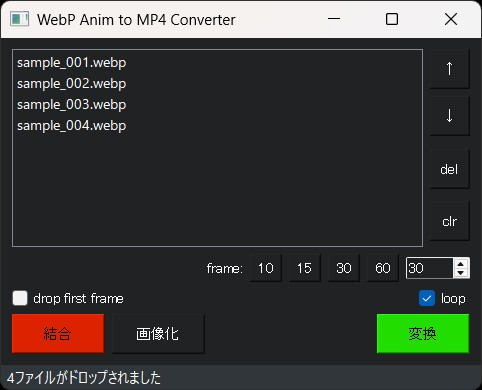
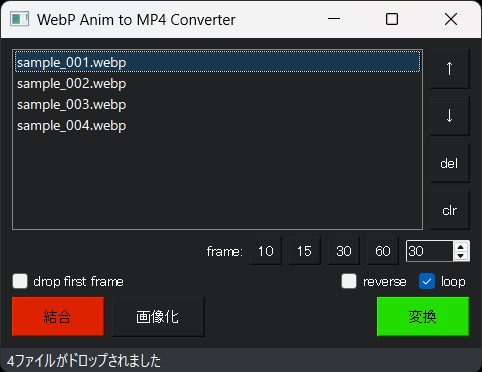
0.2.1 reverse機能を追加、画像化の対象にmp4も追加、他

diff --git a/WebpAnim2Mp4.py b/WebpAnim2Mp4.py
@@ -19,6 +19,7 @@ GEOMETRY_X = "geometry-x"
 GEOMETRY_Y = "geometry-y"
 GEOMETRY_W = "geometry-w"
 GEOMETRY_H = "geometry-h"
+REVERSE_CHECKED = "reverse-checked"
 LOOP_CHECKED = "loop-checked"
 DROP_CHECKED = "drop-checked"
 FRAME_RATE = "frame-rate"
@@ -89,6 +90,8 @@ class WebpAnim2Mp4(QMainWindow):
         self.drop_checkbox = QCheckBox("drop first frame", self)
         self.settingLayout2.addWidget(self.drop_checkbox)
         self.settingLayout2.addStretch()
+        self.reverse_checkbox = QCheckBox("reverse", self)
+        self.settingLayout2.addWidget(self.reverse_checkbox)
         self.loop_checkbox = QCheckBox("loop", self)
         self.settingLayout2.addWidget(self.loop_checkbox)
         self.layout.addLayout(self.settingLayout2)
@@ -254,33 +257,38 @@ class WebpAnim2Mp4(QMainWindow):
 
     def convert_files(self):
         if self.error_check(): return
+        if self.cansel_movie_toolong(self.file_paths): return
         self.proc_start()
         fps = self.fps_spinbox.value()
+        filenum = len(self.file_paths)
         count = 0 
         for file_path in self.file_paths:
-            self.statusBar.showMessage(f"{os.path.basename(file_path)}の変換中")
+            self.statusBar.showMessage(f"{os.path.basename(file_path)}の変換中({count+1}/{filenum})")
             QApplication.processEvents()
             if self.convert_webp_to_mp4(file_path, fps):
                 count += 1
-        mes = f"変換完了！"
+        mes = f"変換完了！({count}ファイル)"
         if count == 0:
             mes = f"エラー: webpファイルが存在しません"
-        elif count != len(self.file_paths):
-            mes = f"{len(self.file_paths)}ファイル中、{count}ファイルを変換しました"
+        elif count != filenum:
+            mes = f"{filenum}ファイル中、{count}ファイルを変換しました"
         self.proc_end(mes)
 
     def convert_webp_to_mp4(self, file_path, fps):
-        #mp4変換はwebpで複数フレームを保持する場合のみ
-        if not file_path.lower().endswith(".webp"): return False
+        #WebPだけじゃなく、画質は落ちるけどmp4もサポート
+        if not file_path.lower().endswith(SUPPORT_MOVIE_EXT): return False
         frames = imageio.mimread(file_path, memtest=False)
         if not frames: return False
 
         sloop = ""
+        # リバース処理: 0,1,2...30 → 30,29,28...2,1,0 に変換
+        if self.reverse_checkbox.isChecked():
+            frames.reverse()
+            sloop += "_rev"
         # ループ処理: 0,1,2...30 → 0,1,2...30,29,28...2,1 に変換
         if self.loop_checkbox.isChecked():
-            #frames += frames[-2::-1]  # 逆順のフレームを追加（最後のフレームは重複しないよう -2 から）
             frames += frames[len(frames)-2:1:-1] #上記の指定だと最後に0フレーム目が被ってる
-            sloop = "_loop"
+            sloop += "_loop"
 
         height, width, _ = frames[0].shape
         fourcc = cv2.VideoWriter_fourcc(*"mp4v")
@@ -320,15 +328,18 @@ class WebpAnim2Mp4(QMainWindow):
         output_file = os.path.splitext(file_path)[0] + f"_concati_{fps}fps{sdrop}.mp4"
         out = cv2.VideoWriter(output_file, fourcc, fps, (width, height))
 
+        filenum = len(self.file_paths)
+        count = 0 
         isFirstFile = True
         for file_path in self.file_paths:
-            self.statusBar.showMessage(f"{os.path.basename(file_path)}の結合中")
+            self.statusBar.showMessage(f"{os.path.basename(file_path)}の結合中({count+1}/{filenum})")
             QApplication.processEvents()
 
             if file_path.lower().endswith(SUPPORT_MOVIE_EXT):
                 frames = imageio.mimread(file_path, memtest=False)
-                if not frames: continue # 動画でないファイルであればスキップ
+                if not frames: continue # 動画でないファイルであればスキップ（最低でも1frameはあるはず）
 
+                count += 1
                 isFirstFrame = True
                 for frame in frames:
                     if not isFirstFile and isFirstFrame:
@@ -342,23 +353,24 @@ class WebpAnim2Mp4(QMainWindow):
 
             isFirstFile = False
         out.release()
-        self.proc_end(f"結合完了！")
+        self.proc_end(f"結合完了！({count}ファイル)")
 
     def to_picfile(self):
         if self.error_check(): return
         if self.cansel_movie_toolong(self.file_paths): return
         self.proc_start()
+        filenum = len(self.file_paths)
         count = 0 
         for file_path in self.file_paths:
-            self.statusBar.showMessage(f"{os.path.basename(file_path)}の処理中")
+            self.statusBar.showMessage(f"{os.path.basename(file_path)}の処理中({count+1}/{filenum})")
             QApplication.processEvents()
             if self.convert_movie_to_png(file_path):
                 count += 1
-        mes = f"処理完了！"
+        mes = f"処理完了！({count}ファイル)"
         if count == 0:
             mes = f"エラー: webp,mp4ファイルが存在しません"
-        elif count != len(self.file_paths):
-            mes = f"{len(self.file_paths)}ファイル中、{count}ファイルを処理しました"
+        elif count != filenum:
+            mes = f"{filenum}ファイル中、{count}ファイルを処理しました"
         self.proc_end(mes)
 
     def cansel_movie_toolong(self, file_paths):
@@ -423,6 +435,9 @@ class WebpAnim2Mp4(QMainWindow):
         dropchecked = pvsubfunc.read_value_from_config(SETTINGS_FILE, DROP_CHECKED)
         if dropchecked != None:
             self.drop_checkbox.setChecked(dropchecked)
+        reversechecked = pvsubfunc.read_value_from_config(SETTINGS_FILE, REVERSE_CHECKED)
+        if reversechecked != None:
+            self.reverse_checkbox.setChecked(reversechecked)
         loopchecked = pvsubfunc.read_value_from_config(SETTINGS_FILE, LOOP_CHECKED)
         if loopchecked != None:
             self.loop_checkbox.setChecked(loopchecked)
@@ -436,6 +451,7 @@ class WebpAnim2Mp4(QMainWindow):
         pvsubfunc.write_value_to_config(SETTINGS_FILE, GEOMETRY_W, self.geometry().width())
         pvsubfunc.write_value_to_config(SETTINGS_FILE, GEOMETRY_H, self.geometry().height())
         pvsubfunc.write_value_to_config(SETTINGS_FILE, DROP_CHECKED, self.drop_checkbox.isChecked())
+        pvsubfunc.write_value_to_config(SETTINGS_FILE, REVERSE_CHECKED, self.reverse_checkbox.isChecked())
         pvsubfunc.write_value_to_config(SETTINGS_FILE, LOOP_CHECKED, self.loop_checkbox.isChecked())
         pvsubfunc.write_value_to_config(SETTINGS_FILE, FRAME_RATE, self.fps_spinbox.value())
 

diff --git a/readme.md b/readme.md
@@ -1,4 +1,4 @@
-## WebpAnim2Mp4について 0.2.0
+## WebpAnim2Mp4について 0.2.1
 WebPのアニメーションファイルをmp4に変換します  
 また動画や画像を結合してmp4に変換します  
 
@@ -6,7 +6,7 @@ WebPのアニメーションファイルをmp4に変換します
 
 ## 特徴
 - 変換：動画生成AIなどで作成した、短いWebPアニメーションファイルをmp4に手軽に変換
-- 変換：フレームの逆再生を含むループ指定可能
+- 変換：フレームの逆再生、ループ指定が可能
 - 結合：複数のWebP,mp4,png,jpgファイルを一つのmp4に結合可能
 - 画像化：WebP,mp4の全フレームをpng画像として出力が可能
 
@@ -44,13 +44,13 @@ WebPのアニメーションファイルをmp4に変換します
 
 - <ins>変換ボタン</ins> - mp4ファイルに変換
     - WebP動画のみを対象として処理
-    - フレームレート、Loop[^1]の指定を元に処理
-    - 入力ファイル数分の変換後mp4ファイル[^2]を生成
+    - フレームレート、loop[^1]、reverse[^2]の指定を元に処理
+    - 入力ファイル数分の変換後mp4ファイル[^3]を生成
 
 - <ins>結合ボタン</ins> - 動画や画像ファイルを結合して1つのmp4ファイルに変換
     - WebP、mp4、jpg、pngを「リストの順序通り」に結合処理
-    - フレームレート、drop first frame[^3]の指定を元に処理
-    - 1つのmp4ファイル[^4]を生成
+    - フレームレート、drop first frame[^4]の指定を元に処理
+    - 1つのmp4ファイル[^5]を生成
 
 - <ins>リスト操作方法</ins>
     - 左クリックでファイルを選択、Shift+左クリックで複数選択、Ctrl+左クリックで選択のトグル
@@ -60,7 +60,7 @@ WebPのアニメーションファイルをmp4に変換します
 - <ins>画像化ボタン</ins> - 全てのフレームをPNGファイルとして出力
     - WebP、mp4動画のみを対象として処理
     - パラメータの指定は参照しません
-    - 入力ファイル名のフォルダを作成し、全フレームの連番pngファイル[^5]を生成
+    - 入力ファイル名のフォルダを作成し、全フレームの連番pngファイル[^6]を生成
 
 > [!WARNING]
 > - 結合する画像と動画の縦横サイズは「必ず」一致させておいてください
@@ -92,7 +92,18 @@ WebPのアニメーションファイルをmp4に変換します
     ![WebpAnim2Mp4-image](docs/WebpAnim2Mp4-image002.jpg)
     ![WebpAnim2Mp4-image](docs/sample_001_concati_2fps.gif)
 
+> [!TIP]
+> 例えば以下のような使い方が出来ます
+> - 振り返るアニメ(hurikaeri)と、その最終フレームからの瞬きをするアニメ(mabataki)の2種類を用意
+> - 瞬きをするアニメ(mabataki)をloop指定でmp4変換
+> - 振り返るアニメ(hurikaeri)をreverse指定でmp4変換
+> - 下記の画像のように、hurikaeri、mabataki_loop、mabataki_loop、hurikaeri_revの順に登録
+> - drop first frameのチェックを入れて結合を行う
+> - そうすると、振り返って瞬きを2回行い、また向こうを向くアニメーションファイルが出来ます
+![WebpAnim2Mp4-image](docs/WebpAnim2Mp4-image003.jpg)
+
 ## 変更履歴
+- 0.2.1 reverse機能を追加、画像化の対象にmp4も追加、他
 - 0.2.0 画像化と結合機能を一新、他
 - 0.1.1 最終フレームの画像化、結合機能を追加、他
 - 0.1.0 初版
@@ -101,22 +112,28 @@ WebPのアニメーションファイルをmp4に変換します
 0,1,2,3の4枚のアニメーションの場合、0,1,2,3,0,1,2,3ではなく、0,1,2,3,3,2,1,0でもなく  
 0,1,2,3,2,1の動画を生成します （動画をループ再生した場合にフレームが重複しないようにしています）  
 
-[^2]:input.webpを入力した場合、ファイル名に設定値を付与します  
+[^2]:reverseについて  
+0,1,2,3の4枚のアニメーションの場合、3,2,1,0の動画を生成します  
+loopと合わせて指定した場合、3,2,1,0,1,2の動画を生成します  
+
+[^3]:input.webpを入力した場合、ファイル名に設定値を付与します  
 ・frame:15指定の場合は、input_15fps.mp4  
 ・frame:60指定、loopありの場合は、input_60fps_loop.mp4  
+・frame:30指定、reverseありの場合は、input_30fps_rev.mp4  
+・frame:10指定、loop、reverseありの場合は、input_10fps_rev_loop.mp4  
 
-[^3]:drop first frameについて  
+[^4]:drop first frameについて  
 a0,a1,a2,a3とb0,b1,b2,b3,b4,b5の二つのアニメーションファイルの場合  
 チェックなしで、a0,a1,a2,a3,b0,b1,b2,b3,b4,b5 （全てのフレームを結合）  
 チェックありで、a0,a1,a2,a3,b1,b2,b3,b4,b5 （２ファイル目以降の先頭フレームを削除）  
 の出力を行います  
 これはa3フレームを起点として生成した別のアニメーションファイルを結合することを想定しています  
 
-[^4]:input01.webp、input02.webpを入力した場合、「リスト先頭のファイル名」に設定値を付与します  
+[^5]:input01.webp、input02.webpを入力した場合、「リスト先頭のファイル名」に設定値を付与します  
 ・frame:15指定の場合は、input01_concati_15fps.mp4  
 ・frame:60指定、dropありの場合は、input01_concati_60fps_drop.mp4  
 
-[^5]:input.webpを入力した場合、以下のように出力します  
+[^6]:input.webpを入力した場合、以下のように出力します  
 ・input_webp_picsフォルダを作成  
 ・全フレームをinput_frameXXX.pngのような連番ファイルとして出力  
 ・フレーム数が3桁未満の場合は3桁のゼロパディング、4桁以降はその桁数でゼロパディング
